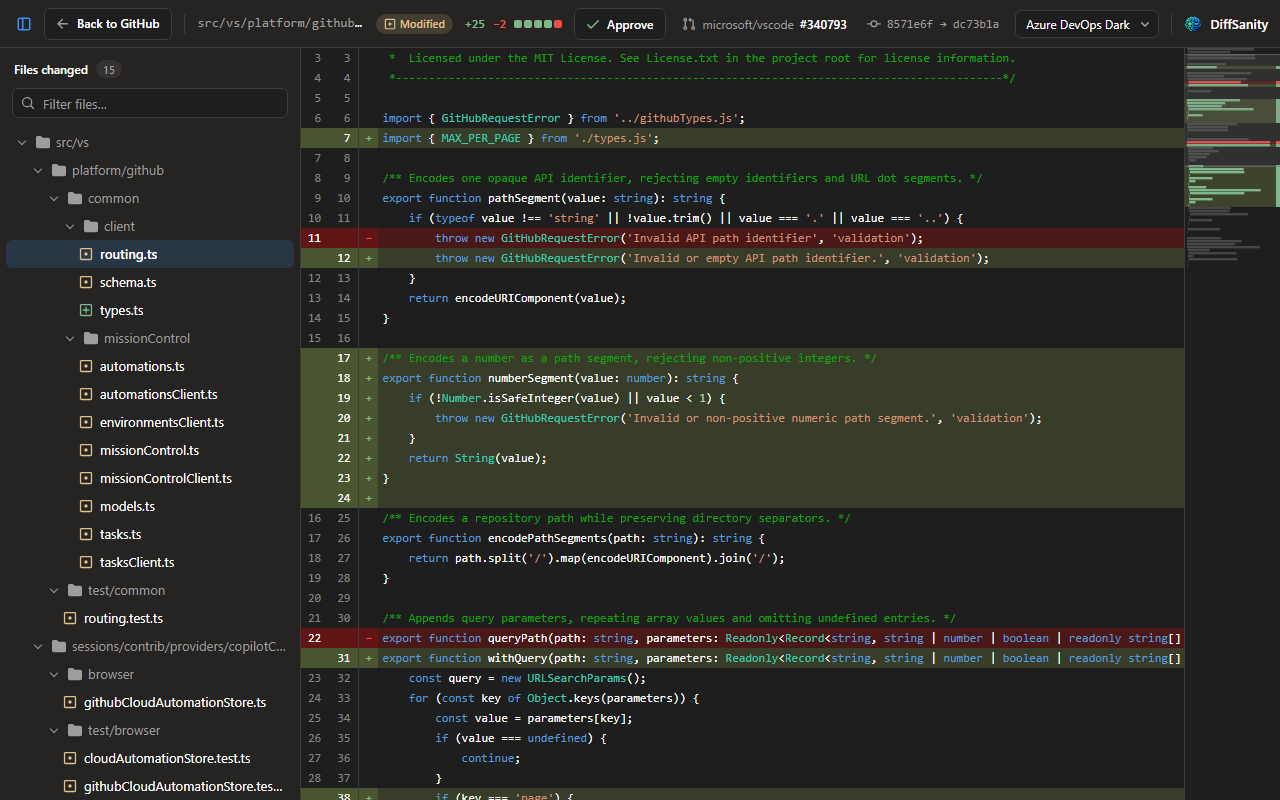
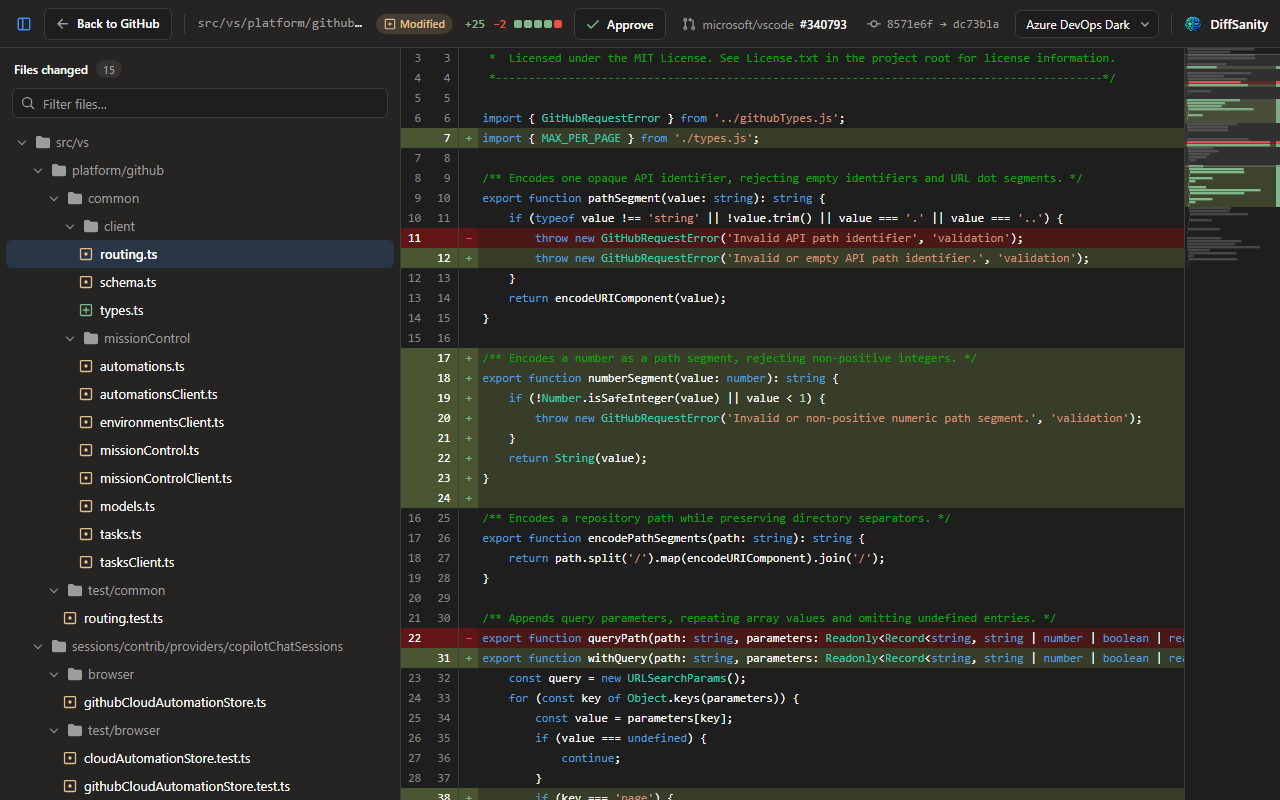
Make the file list wider by default

diff --git a/src/review/sidebar.ts b/src/review/sidebar.ts
@@ -1,7 +1,7 @@
 /** Width and visibility of the file sidebar, remembered across review tabs like the theme. */
 const WIDTH_KEY = 'diffsanity.sidebarWidth';
 const HIDDEN_KEY = 'diffsanity.sidebarHidden';
-const DEFAULT_WIDTH = 300;
+const DEFAULT_WIDTH = 400;
 const MIN_WIDTH = 160;
 /** The diff keeps at least this share of the window. */
 const MAX_WIDTH_SHARE = 0.6;

diff --git a/test/fileTree.test.ts b/test/fileTree.test.ts
@@ -151,6 +151,6 @@ describe('clampSidebarWidth', () => {
     expect(clampSidebarWidth(300, 1600)).toBe(300);
     expect(clampSidebarWidth(40, 1600)).toBe(160);
     expect(clampSidebarWidth(1500, 1000)).toBe(600);
-    expect(clampSidebarWidth(Number.NaN, 1000)).toBe(300);
+    expect(clampSidebarWidth(Number.NaN, 1000)).toBe(400);
   });
 });

diff --git a/styles/review.css b/styles/review.css
@@ -439,7 +439,7 @@
     display: flex;
     flex-direction: column;
     flex: none;
-    width: 300px;
+    width: 400px;
     min-width: 0;
     background: var(--ds-bg-subtle);
   }
